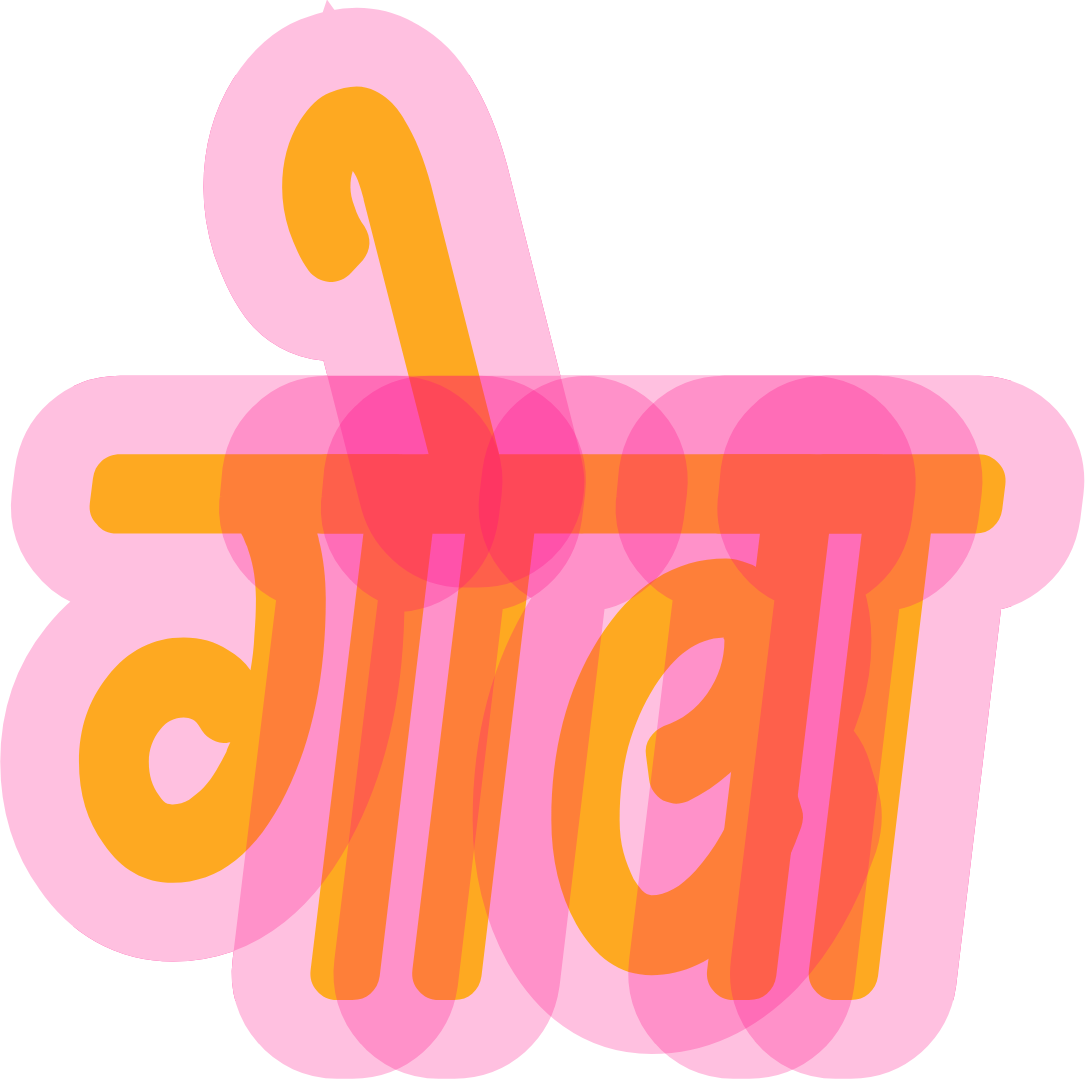
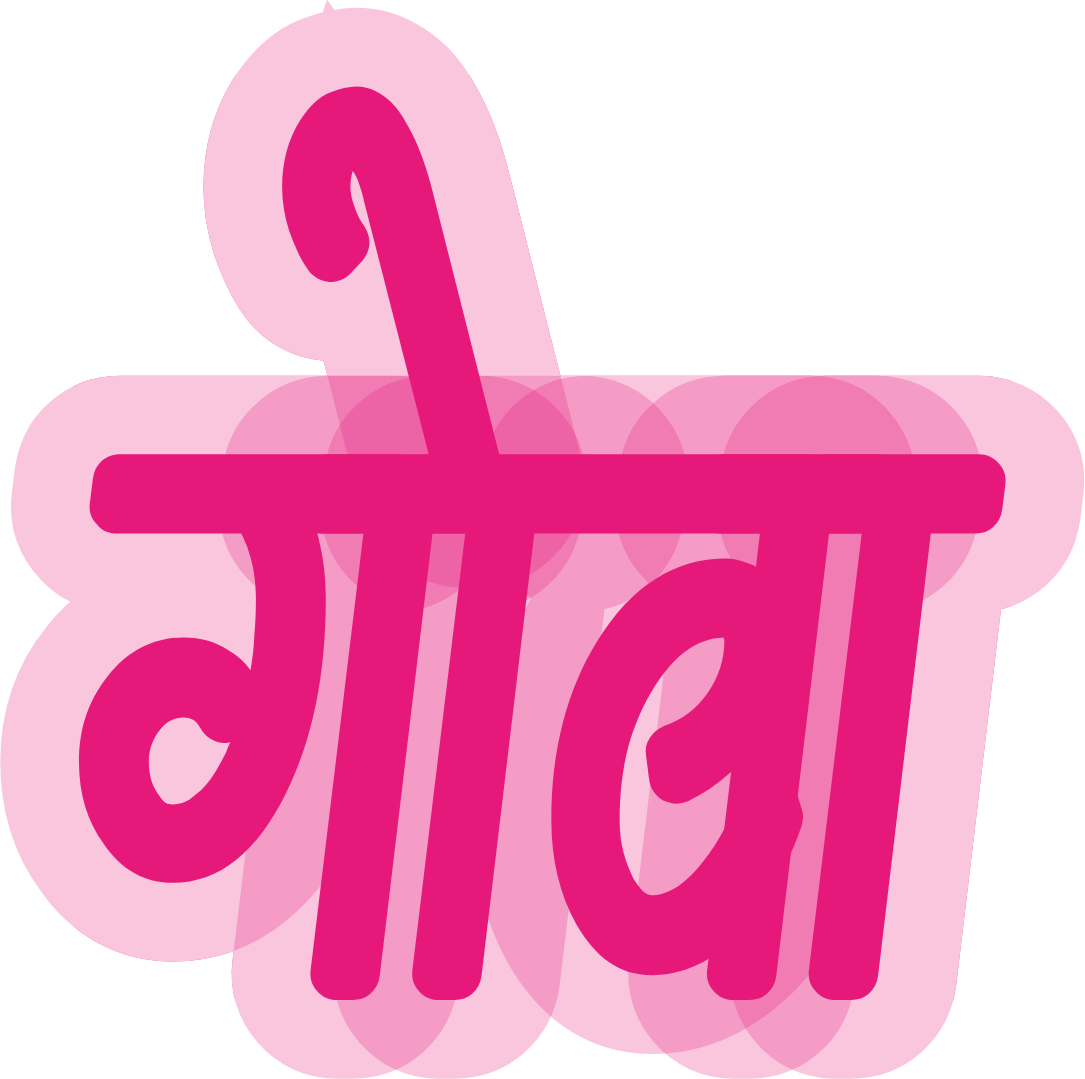
Match the reference's display weight and pink गोवा
Side-by-side against the reference composite, two gaps stood out.

The poster type was set at the display face's heaviest weight, which read blocky
and jumped forward; the reference sets it far lighter so it sits behind the card.
Dropped 900 → 500 and eased the alpha, on both the mirrored headline and the
GOA 2026 wordmark.

hhgoa.com serves गोवा in gold, but both the brand's accent colour and the
reference composite put the badge in hot pink, so it is recoloured at rasterise
time rather than at every draw.

24/24 against production; card-size invariant holds.

Changed region(s): [[0.0608, 0.0612, 0.9429, 0.9481]]

diff --git a/lib/render/motifs.ts b/lib/render/motifs.ts
@@ -49,13 +49,13 @@ export function mirroredHeadline(ctx: Ctx, w: number, opts: { top?: number } = {
   // Sized so a line spans the full canvas width; positioned so the caps are
   // whole rather than sliced by the top edge.
   let size = 200;
-  ctx.font = font(FONTS.display, size, 900);
+  ctx.font = font(FONTS.display, size, 500);
   size = Math.round((size * (w * 1.02)) / ctx.measureText(lines[0]).width);
 
   const lineH = size * 0.9;
   lines.forEach((line, i) => {
-    ctx.font = font(FONTS.display, size, 900);
-    ctx.globalAlpha = 0.92;
+    ctx.font = font(FONTS.display, size, 500);
+    ctx.globalAlpha = 0.82;
     ctx.fillText(line, w / 2, top + size * 0.86 + i * lineH);
   });
   ctx.restore();
@@ -68,9 +68,10 @@ export function bottomWordmark(ctx: Ctx, w: number, h: number) {
   ctx.textBaseline = "alphabetic";
   ctx.fillStyle = COLORS.gold;
   let size = 200;
-  ctx.font = font(FONTS.display, size, 900);
+  ctx.font = font(FONTS.display, size, 500);
   size = Math.round((size * (w * 0.96)) / ctx.measureText("GOA 2026").width);
-  ctx.font = font(FONTS.display, size, 900);
+  ctx.font = font(FONTS.display, size, 500);
+  ctx.globalAlpha = 0.9;
   ctx.fillText("GOA 2026", w / 2, h - size * 0.12);
   ctx.restore();
 }
